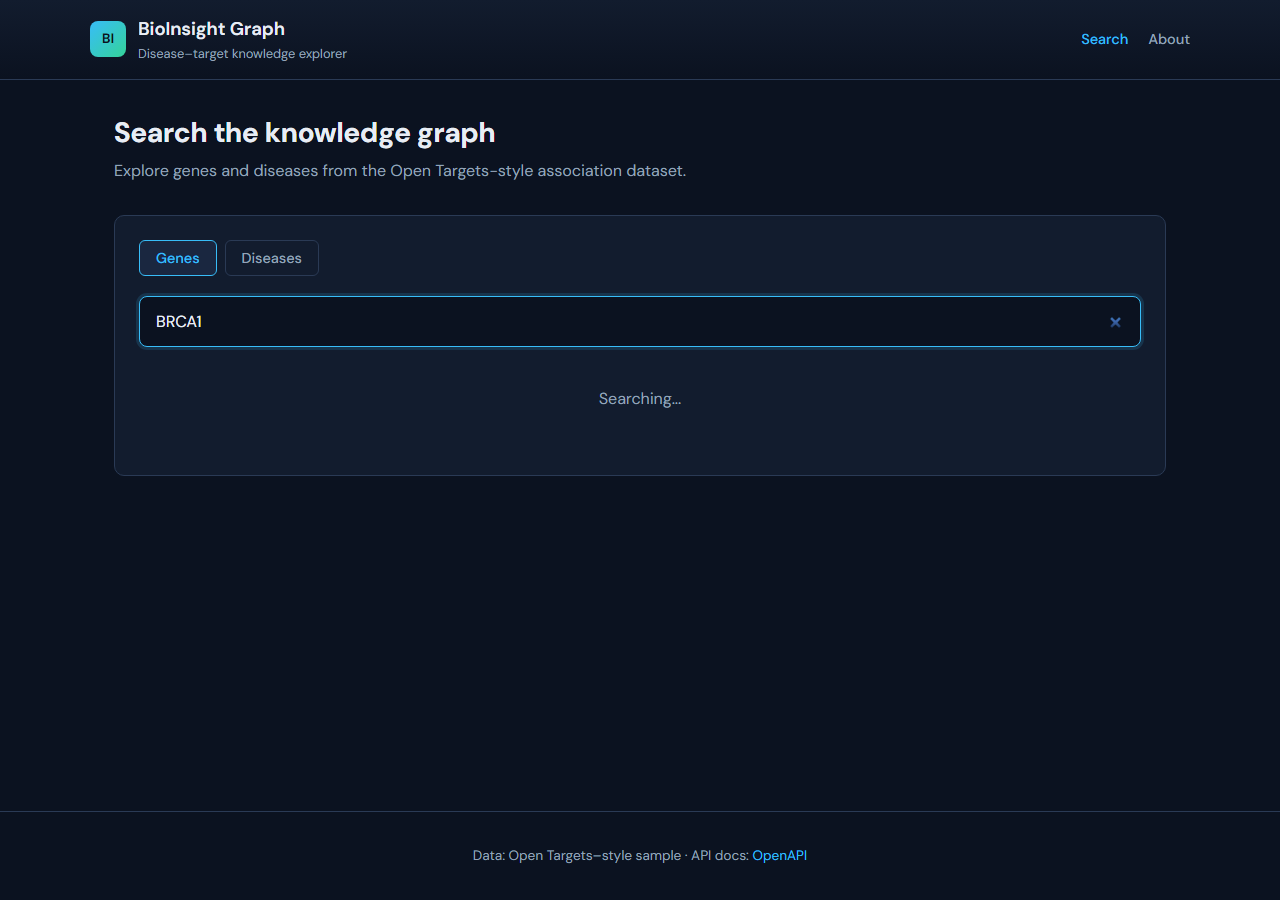
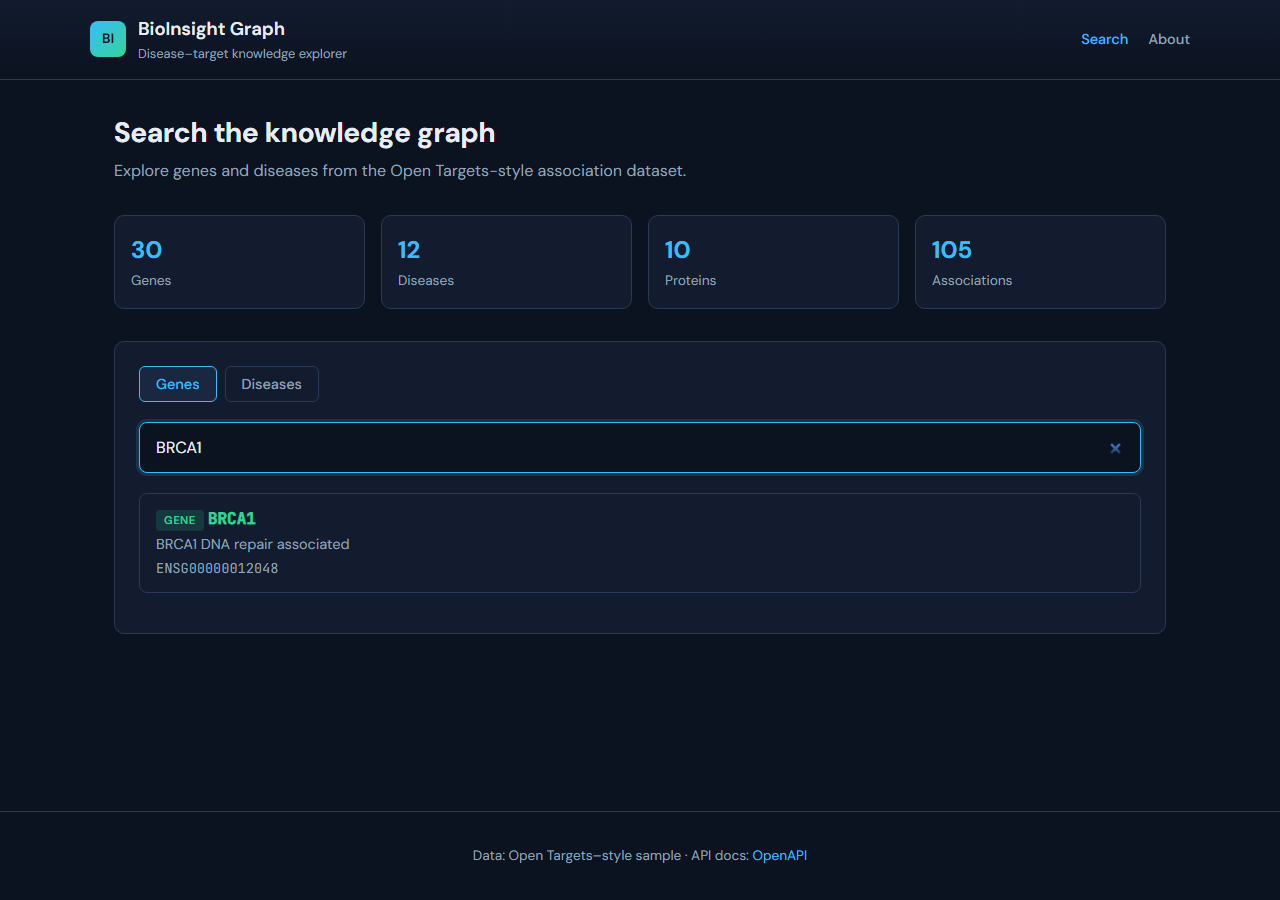
HITL docs, automated screenshots and demo GIF

Changed region(s): [[0.0938, 0.2489, 0.9062, 0.4356], [0.0938, 0.4356, 0.9062, 0.5289], [0.125, 0.56, 0.2812, 0.6533]]

diff --git a/docs/HUMAN_IN_THE_LOOP.md b/docs/HUMAN_IN_THE_LOOP.md
@@ -1,0 +1,49 @@
+# Human-in-the-loop (HITL)
+
+BioInsight Graph is a **research demo**, not a clinical system. Human review is part of the intended workflow when agents or automation surface results.
+
+## Three layers of human intervention
+
+### 1. BioInsight web UI (ground truth)
+
+Researchers validate associations visually — this is the primary HITL surface.
+
+| Step | Action |
+|------|--------|
+| Search | Open http://localhost:8080 and search **BRCA1** |
+| Inspect graph | Open gene detail → **Graph** tab, pan/zoom the force-directed view |
+| Compare scores | Switch to **Table** view for association scores |
+| Neo4j | Optional: confirm in Neo4j Browser http://localhost:7474 |
+
+The UI screenshots in the README are the reference for what “correct” looks like in this dataset.
+
+### 2. MCP + Cursor (agent assistant)
+
+When using [embabel-mcp](https://github.com/LordKay-sudo/embabel-mcp):
+
+1. Run tools with `format=markdown`.
+2. Use MCP prompt **`review-gene-report`** — instructs the human to cross-check http://localhost:8080 before trusting the model’s summary.
+3. Do not treat MCP output as medical advice.
+
+### 3. Embabel `GeneResearchAgent` (optional form gate)
+
+With `bioinsight.hitl.enabled=true` (interactive Embabel shell / supported clients), the agent pauses after loading graph data and waits for **`GeneResearchApproval`** (approve + notes) before emitting the final report.
+
+Default for MCP server mode: **HITL off** (auto-approved) so Cursor is not blocked waiting for a form the client cannot render.
+
+```yaml
+# embabel-mcp application.yml or env
+BIOINSIGHT_HITL_ENABLED=true
+```
+
+## Checklist before sharing a gene report
+
+- [ ] Symbol resolves to the intended Ensembl ID
+- [ ] Top disease scores match the graph/table in the web UI
+- [ ] Disclaimer stated: Open Targets–style **sample** data
+- [ ] Reviewer name or “demo review” noted if required by your process
+
+## Related
+
+- [ARCHITECTURE.md](ARCHITECTURE.md) — URLs and ERD
+- [DEMO.md](DEMO.md) — recording walkthrough GIFs

diff --git a/docs/DEMO.md b/docs/DEMO.md
@@ -1,15 +1,25 @@
-# Recording a demo GIF (optional)
+# Demo media capture
 
-The README uses **PNG screenshots** so the repo stays lightweight. To add a GIF:
+Automated capture (Playwright + optional ffmpeg):
 
-1. Start the stack: `docker compose up --build` (or dev API + web).
-2. Open http://localhost:8080 and search **BRCA1**.
-3. Open the gene detail page — show the force-directed graph pan/zoom.
-4. Record 10–20 seconds with [ScreenToGif](https://www.screentogif.com/) or OBS.
-5. Save as `docs/demo-walkthrough.gif` and add to README:
+```bash
+docker compose up --build -d
+# wait until http://localhost:8080 loads
+node scripts/capture_media.mjs
+```
 
-   ```markdown
-   ![Demo walkthrough](docs/demo-walkthrough.gif)
-   ```
+Outputs:
 
-No application code changes are required.
+| File | Description |
+|------|-------------|
+| `screenshot-search.png` | Search results for BRCA1 |
+| `screenshot-graph.png` | Force-directed subgraph |
+| `screenshot-gene-detail.png` | Full gene detail page |
+| `demo-walkthrough.gif` | Short search → gene → graph animation (requires ffmpeg on PATH) |
+
+Environment:
+
+- `WEB_URL` — default `http://127.0.0.1:8080`
+- `GENE_PATH` — default `/gene/ENSG00000012048`
+
+Manual recording is still fine via [ScreenToGif](https://www.screentogif.com/) if ffmpeg is not installed.

diff --git a/README.md b/README.md
@@ -37,6 +37,14 @@ BioInsight Graph models how research datasets can become **queryable knowledge g
 
 Open the app: **http://localhost:8080** (Docker) or **http://localhost:5173** (dev). More diagrams: [docs/ARCHITECTURE.md](docs/ARCHITECTURE.md) · Optional GIF: [docs/DEMO.md](docs/DEMO.md).
 
+### Demo walkthrough
+
+![Demo walkthrough — search BRCA1 and open graph view](docs/demo-walkthrough.gif)
+
+### Human-in-the-loop
+
+Before trusting agent or MCP output, review associations in the web UI. See [docs/HUMAN_IN_THE_LOOP.md](docs/HUMAN_IN_THE_LOOP.md).
+
 ---
 
 ## Quick start
@@ -100,6 +108,8 @@ docker compose -f docker-compose.yml -f docker-compose.mcp.yml up --build
 | Service | URL |
 |---------|-----|
 | MCP (SSE) | http://localhost:1337/sse |
+
+Human review workflow: [docs/HUMAN_IN_THE_LOOP.md](docs/HUMAN_IN_THE_LOOP.md).
 
 The `seed` service runs once per `compose up` (loads Open Targets–style sample data). To re-seed:
 